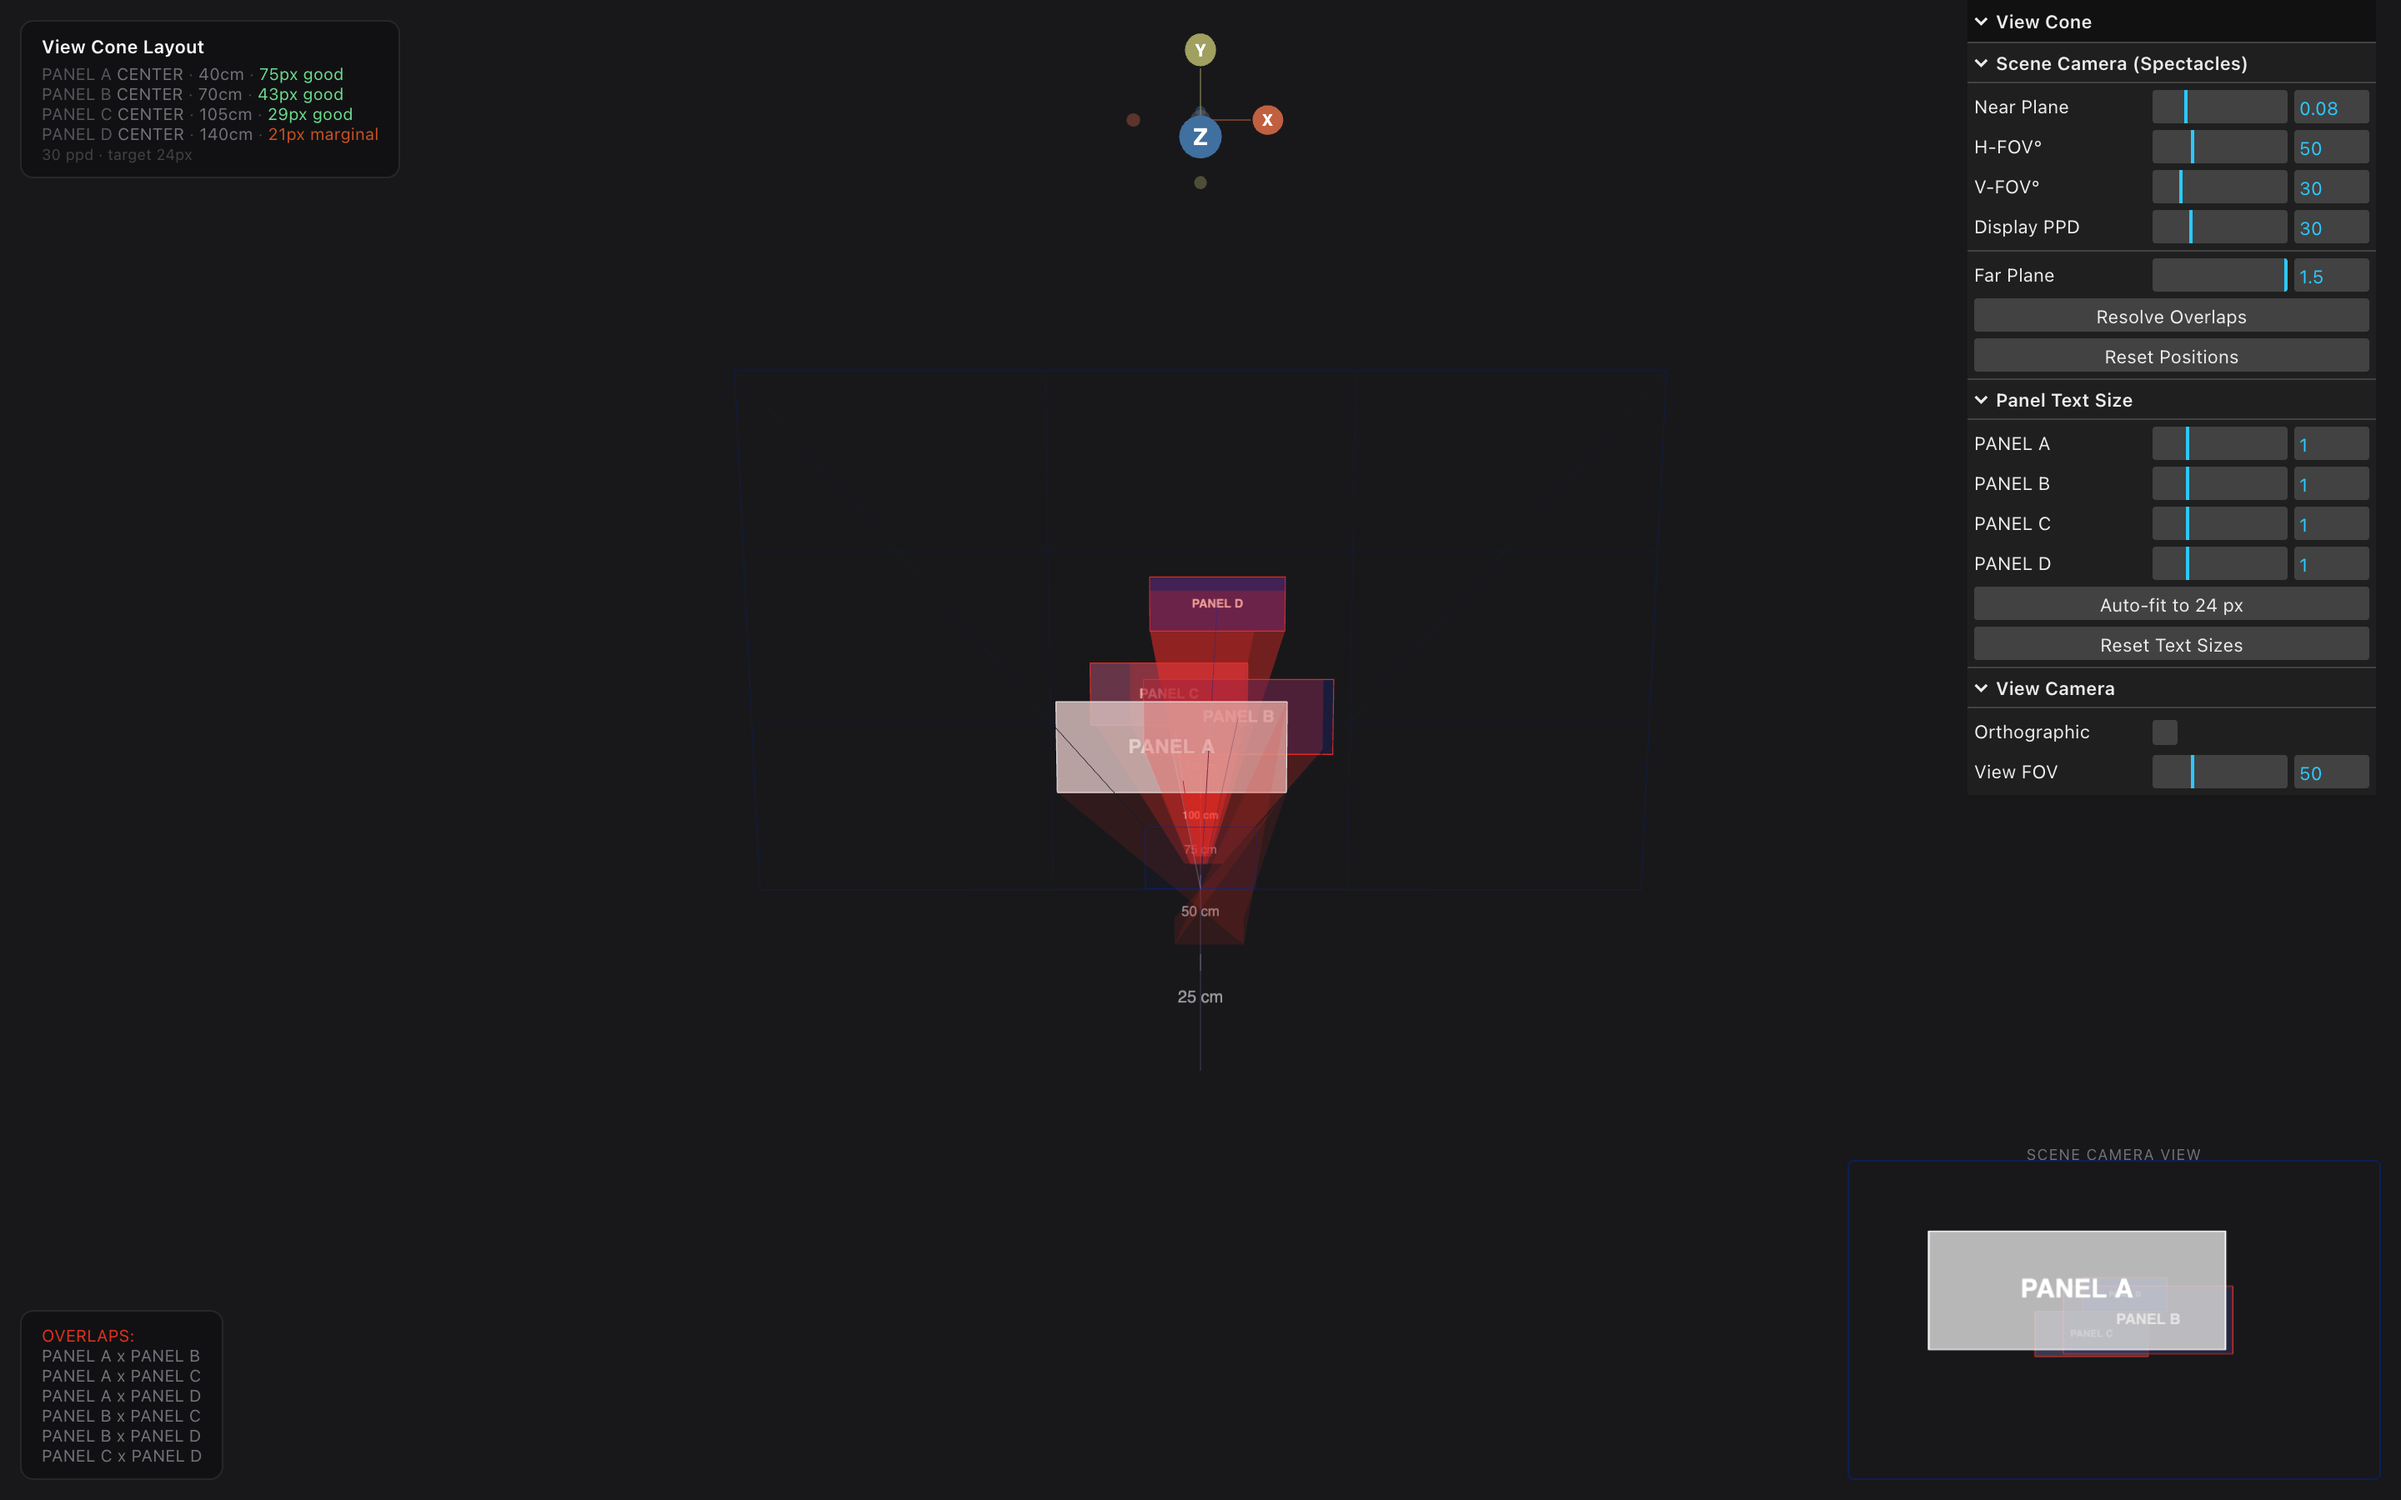
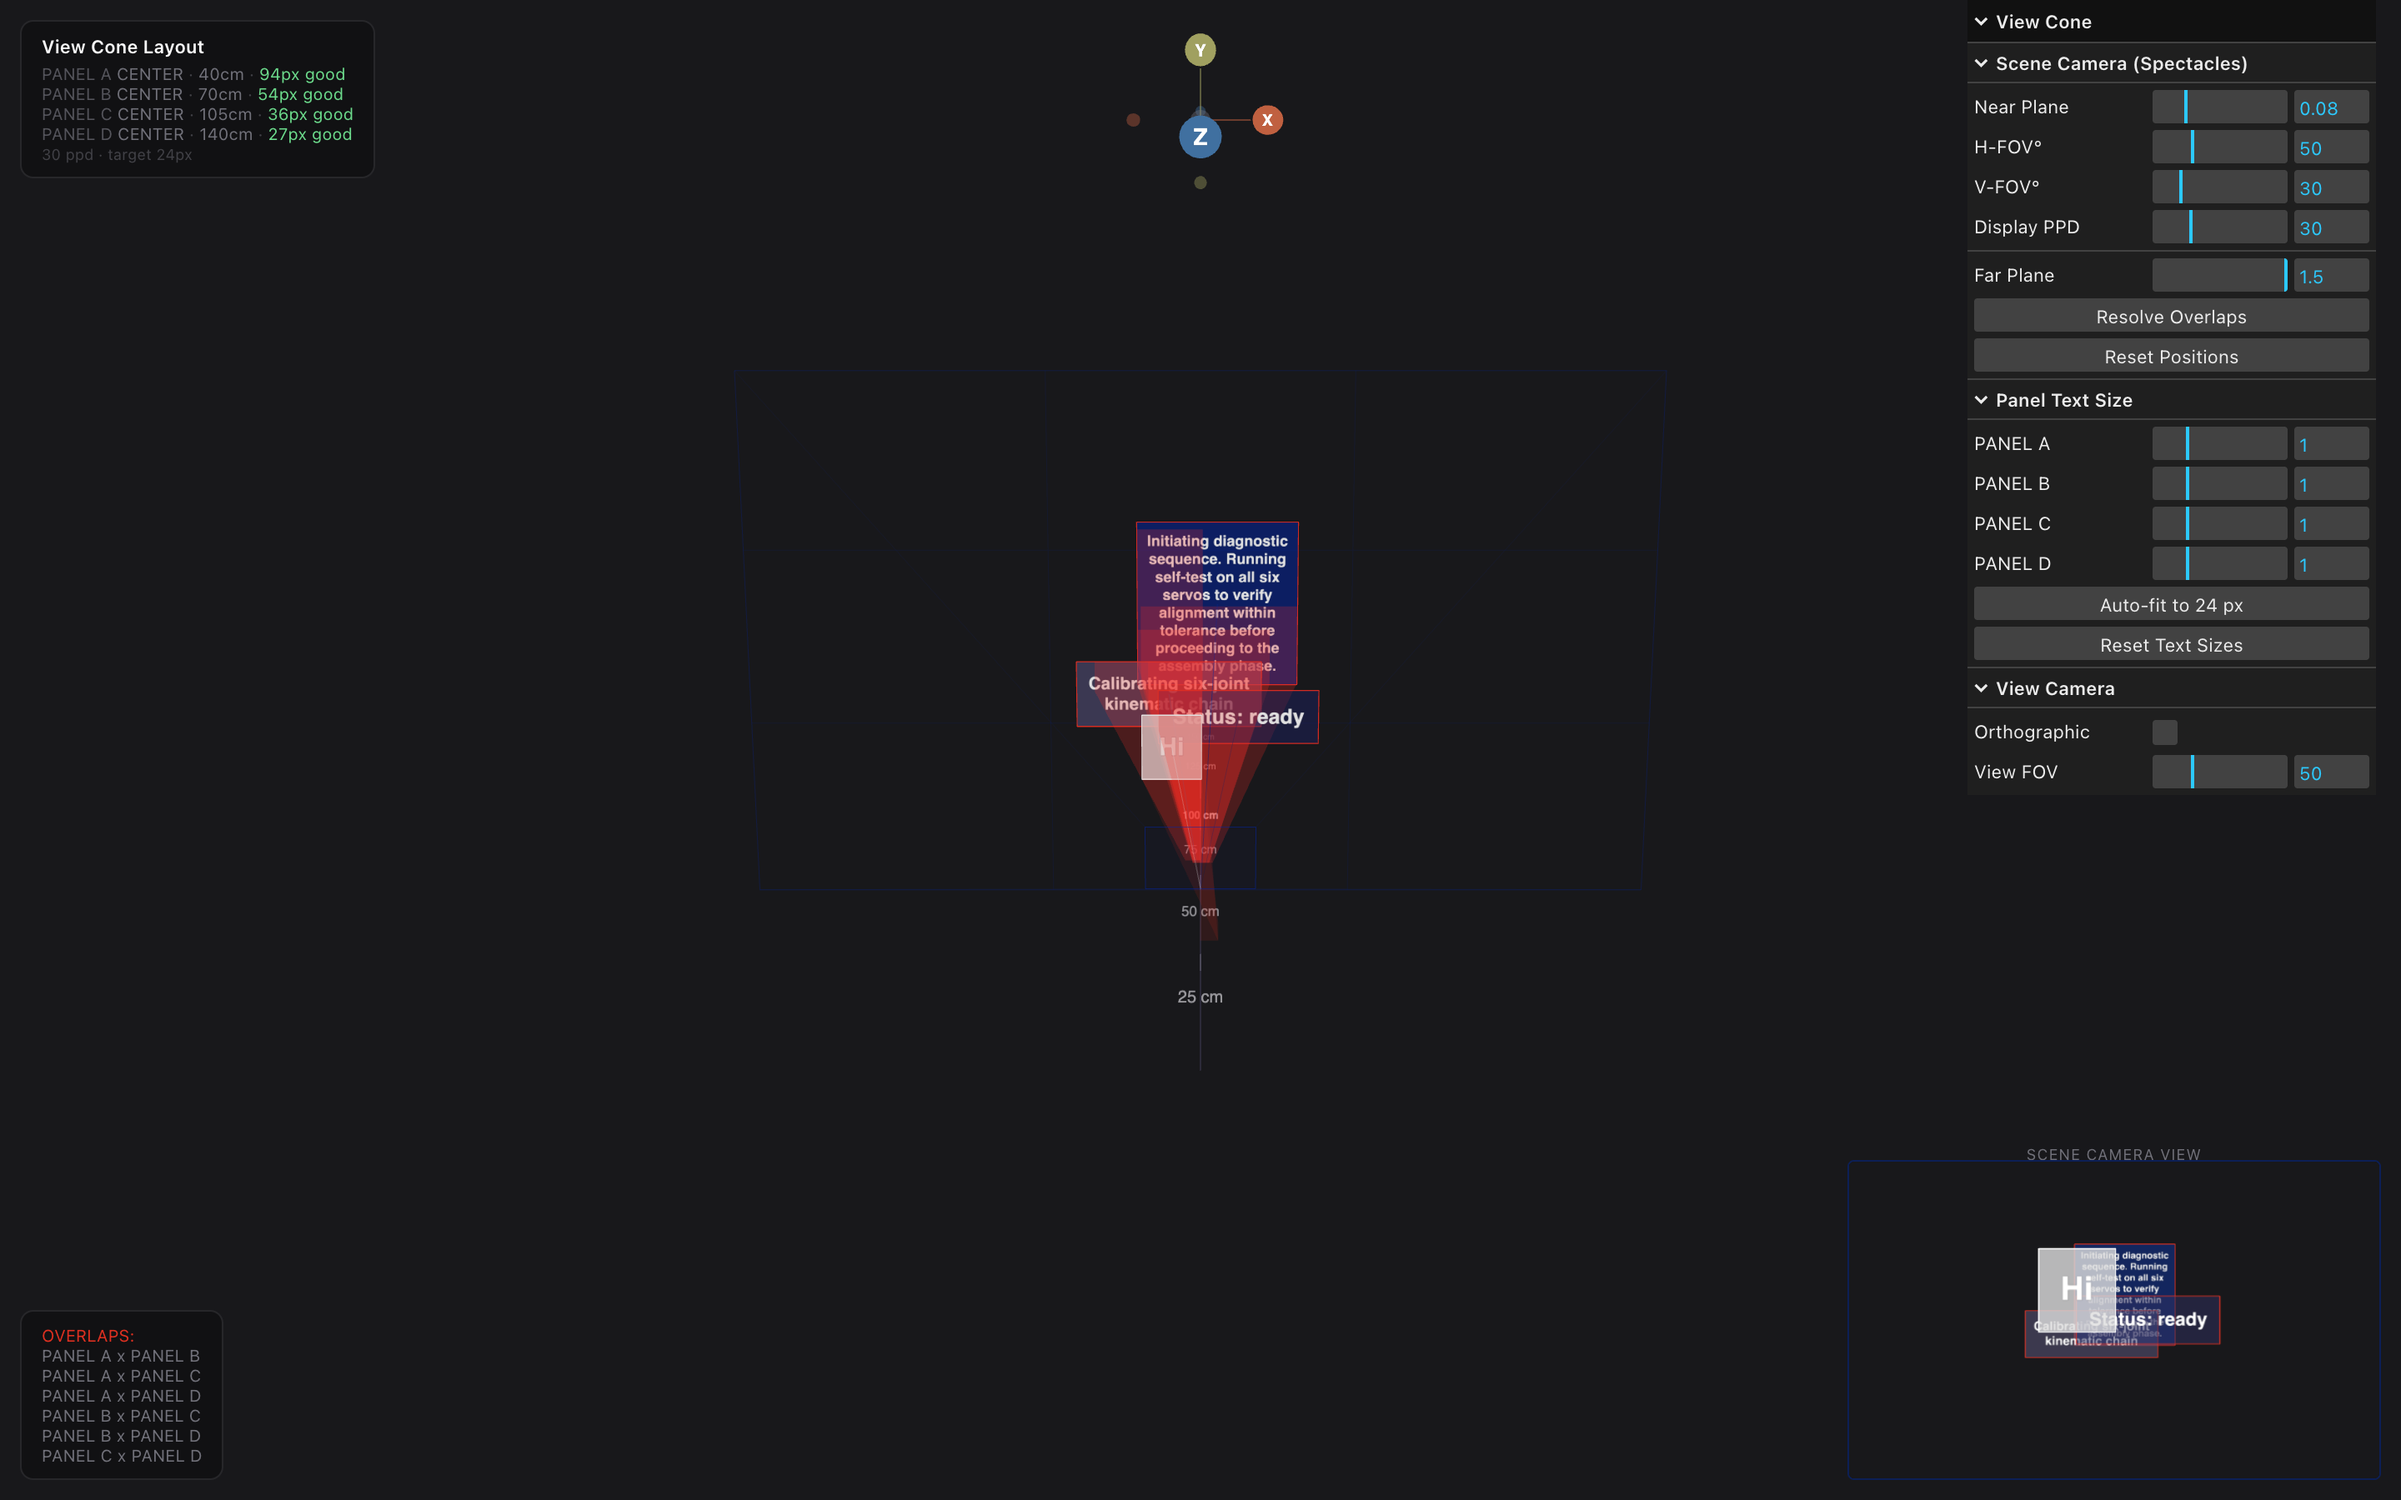
Demo: panels shrinkwrap to their text, sample sentences with length variance
createPanel now takes free-form text, runs canvas-based measurement +
greedy word-wrap, and resizes the face/border/label to the text's
bounding box plus a small padding. Frames snap to content; setTextScale
re-runs the wrap, so changing scale grows the panel rather than
overflowing it.

Sample content covers the full range:
  PANEL A — "Hi" (very short)
  PANEL B — "Status: ready" (short)
  PANEL C — "Calibrating six-joint kinematic chain" (medium)
  PANEL D — full diagnostic sentence (long, wraps to ~6 lines)

Changed region(s): [[0.4375, 0.3422, 0.5625, 0.6222], [0.7812, 0.8089, 0.9375, 0.9022], [0.0938, 0.0311, 0.1562, 0.0933]]

diff --git a/packages/view-cone-layout/demo/index.html b/packages/view-cone-layout/demo/index.html
@@ -287,60 +287,157 @@ const panelNames = ["PANEL A", "PANEL B", "PANEL C", "PANEL D"];
 
 const DEPTHS = { near: 0.4, mid: 0.65, far: 1.0 };
 
-function createPanel(name, x, y, z, color, w = 0.2, h = 0.08) {
-  const group = new THREE.Group();
+// ─── Text measurement + shrinkwrap ───────────────────────────────────
+// Convert world meters ↔ canvas pixels at a fixed pixel density.
+// 1280 px/m means 1 cm world == 12.8 px on the label canvas. This keeps
+// rendered text crisp regardless of the wrapped line count.
+const LABEL_PPM = 1280;
 
-  // Solid face
-  const faceGeo = new THREE.PlaneGeometry(w, h);
-  const faceMat = new THREE.MeshBasicMaterial({
-    color, transparent: true, opacity: 0.6, side: THREE.DoubleSide, depthWrite: false,
-  });
-  const face = new THREE.Mesh(faceGeo, faceMat);
-  group.add(face);
+const _measureCanvas = document.createElement('canvas');
+const _measureCtx = _measureCanvas.getContext('2d');
 
-  // Border outline
-  const borderGeo = new THREE.EdgesGeometry(new THREE.BoxGeometry(w, h, 0.002));
-  const borderMat = new THREE.LineBasicMaterial({ color: 0xffffff, transparent: true, opacity: 0.8 });
-  const border = new THREE.LineSegments(borderGeo, borderMat);
-  group.add(border);
+/**
+ * Greedy word-wrap + bounding-box measurement using canvas.measureText().
+ * Returns { lines, widthPx, heightPx, lineHeightPx }.
+ */
+function measureTextLines(text, fontPx, maxWidthPx = Infinity) {
+  _measureCtx.font = `bold ${fontPx}px Inter, sans-serif`;
+  const lineHeightPx = fontPx * 1.2;
+  const finalLines = [];
 
-  // Label
+  for (const inputLine of text.split('\n')) {
+    const words = inputLine.split(' ');
+    let cur = '';
+    for (const word of words) {
+      const trial = cur ? cur + ' ' + word : word;
+      if (_measureCtx.measureText(trial).width > maxWidthPx && cur) {
+        finalLines.push(cur);
+        cur = word;
+      } else {
+        cur = trial;
+      }
+    }
+    if (cur || inputLine === '') finalLines.push(cur);
+  }
+
+  let widthPx = 0;
+  for (const line of finalLines) {
+    widthPx = Math.max(widthPx, _measureCtx.measureText(line).width);
+  }
+  return {
+    lines: finalLines,
+    widthPx: Math.ceil(widthPx),
+    heightPx: Math.ceil(finalLines.length * lineHeightPx),
+    lineHeightPx,
+  };
+}
+
+/**
+ * Render measured text to a canvas at supersampled resolution.
+ * Returns { canvas, widthPx, heightPx } where the dims match `measure`.
+ */
+function renderTextCanvas(measure, fontPx, color = '#ffffff') {
+  const SS = 2;  // supersample factor for sharp glyphs at any scale
   const canvas = document.createElement('canvas');
-  canvas.width = 256; canvas.height = 64;
+  canvas.width = measure.widthPx * SS;
+  canvas.height = measure.heightPx * SS;
   const ctx = canvas.getContext('2d');
-  ctx.fillStyle = '#ffffff';
-  ctx.font = 'bold 28px Inter, sans-serif';
+  ctx.scale(SS, SS);
+  ctx.fillStyle = color;
+  ctx.font = `bold ${fontPx}px Inter, sans-serif`;
   ctx.textAlign = 'center';
-  ctx.fillText(name, 128, 40);
-  const tex = new THREE.CanvasTexture(canvas);
-  const labelGeo = new THREE.PlaneGeometry(w * 0.8, h * 0.5);
-  const labelMat = new THREE.MeshBasicMaterial({ map: tex, transparent: true, depthWrite: false });
-  const label = new THREE.Mesh(labelGeo, labelMat);
-  label.position.z = 0.003;
-  group.add(label);
+  ctx.textBaseline = 'middle';
+  for (let i = 0; i < measure.lines.length; i++) {
+    ctx.fillText(measure.lines[i], measure.widthPx / 2, (i + 0.5) * measure.lineHeightPx);
+  }
+  return { canvas, widthPx: measure.widthPx, heightPx: measure.heightPx };
+}
 
+function createPanel({
+  name, text, x, y, z, color,
+  fontPx = 28,
+  paddingCm = 1.5,             // padding around text (cm world)
+  maxWidthCm = 25,             // wrap width (cm world)
+}) {
+  const group = new THREE.Group();
   group.position.set(x, y, z);
   scene.add(group);
 
-  // Original label geometry parameters — used for text-size scaling
-  // and for computing apparent pixel size on the wearer's display.
-  const LABEL_FONT_PX = 28;        // font size used to render the canvas texture
-  const LABEL_CANVAS_H = 64;       // canvas height in pixels
-  const LABEL_PLANE_H = h * 0.5;   // label plane height in world meters
-  // World height of one cap (font glyph) at scale=1.0:
-  const baselineCapHWorld = LABEL_PLANE_H * (LABEL_FONT_PX / LABEL_CANVAS_H);
+  // Solid face
+  const faceMat = new THREE.MeshBasicMaterial({
+    color, transparent: true, opacity: 0.6, side: THREE.DoubleSide, depthWrite: false,
+  });
+  const face = new THREE.Mesh(new THREE.PlaneGeometry(0.01, 0.01), faceMat);
+  group.add(face);
 
-  return {
-    name, group, face, faceMat, borderMat, label, w, h,
-    hovered: false, sector: '', conflicts: [],
+  // Border outline
+  const borderMat = new THREE.LineBasicMaterial({ color: 0xffffff, transparent: true, opacity: 0.8 });
+  const border = new THREE.LineSegments(new THREE.BufferGeometry(), borderMat);
+  group.add(border);
+
+  // Label (text texture)
+  const labelMat = new THREE.MeshBasicMaterial({ transparent: true, depthWrite: false });
+  const label = new THREE.Mesh(new THREE.PlaneGeometry(0.01, 0.01), labelMat);
+  label.position.z = 0.003;
+  group.add(label);
+
+  // Panel state — recomputed by shrinkwrap()
+  const panel = {
+    name, group, face, faceMat, border, borderMat, label, labelMat,
+    text, fontPx, paddingCm, maxWidthCm,
     textScale: 1.0,
-    baselineCapHWorld,
+    w: 0, h: 0,
+    baselineCapHWorld: 0,
+    hovered: false, sector: '', conflicts: [],
     get worldPos() { return group.position; },
+
+    /** Re-measure the text at current fontPx*scale, resize face/border/label to fit. */
+    shrinkwrap() {
+      const effFontPx = this.fontPx * this.textScale;
+      const maxW = this.maxWidthCm * 0.01 * LABEL_PPM;
+      const measure = measureTextLines(this.text, effFontPx, maxW);
+
+      // Render to a fresh canvas
+      const rendered = renderTextCanvas(measure, effFontPx);
+      if (this.labelMat.map) this.labelMat.map.dispose();
+      this.labelMat.map = new THREE.CanvasTexture(rendered.canvas);
+      this.labelMat.map.colorSpace = THREE.SRGBColorSpace;
+      this.labelMat.needsUpdate = true;
+
+      // World dims
+      const labelW = rendered.widthPx / LABEL_PPM;
+      const labelH = rendered.heightPx / LABEL_PPM;
+      const padW = this.paddingCm * 0.01 * 2;
+      const frameW = labelW + padW;
+      const frameH = labelH + padW;
+
+      // Update geometries
+      this.label.geometry.dispose();
+      this.label.geometry = new THREE.PlaneGeometry(labelW, labelH);
+      this.face.geometry.dispose();
+      this.face.geometry = new THREE.PlaneGeometry(frameW, frameH);
+      this.border.geometry.dispose();
+      this.border.geometry = new THREE.EdgesGeometry(new THREE.BoxGeometry(frameW, frameH, 0.002));
+
+      this.w = frameW;
+      this.h = frameH;
+      // Cap height in world = font px / PPM (one glyph row)
+      this.baselineCapHWorld = effFontPx / LABEL_PPM;
+    },
+
     setTextScale(s) {
       this.textScale = s;
-      this.label.scale.set(s, s, 1);
+      this.shrinkwrap();
+    },
+
+    setText(newText) {
+      this.text = newText;
+      this.shrinkwrap();
     },
   };
+
+  panel.shrinkwrap();
+  return panel;
 }
 
 /**
@@ -357,7 +454,8 @@ function createPanel(name, x, y, z, color, w = 0.2, h = 0.08) {
 function getPanelTextMetrics(panel, ppd) {
   const p = panel.worldPos;
   const distance = Math.sqrt(p.x * p.x + p.y * p.y + p.z * p.z);
-  const capH = panel.baselineCapHWorld * panel.textScale;
+  // baselineCapHWorld is already scaled by current textScale (set in shrinkwrap)
+  const capH = panel.baselineCapHWorld;
   const angularRad = 2 * Math.atan(capH / 2 / distance);
   const angularDeg = angularRad * 180 / Math.PI;
   const pixelHeight = angularDeg * ppd;
@@ -375,9 +473,25 @@ const INITIAL_POSITIONS = [
   [-0.040, -0.025, -1.05],
   [ 0.025,  0.060, -1.40],   // far
 ];
+
+// Sample content with high length variance: short label, status line,
+// medium phrase, long sentence. Frames shrinkwrap to their text, so each
+// panel ends up at a different world size.
+const PANEL_SENTENCES = [
+  "Hi",
+  "Status: ready",
+  "Calibrating six-joint kinematic chain",
+  "Initiating diagnostic sequence. Running self-test on all six servos to verify alignment within tolerance before proceeding to the assembly phase.",
+];
+
 for (let i = 0; i < panelNames.length; i++) {
   const [x, y, z] = INITIAL_POSITIONS[i];
-  panels.push(createPanel(panelNames[i], x, y, z, panelColors[i]));
+  panels.push(createPanel({
+    name: panelNames[i],
+    text: PANEL_SENTENCES[i],
+    x, y, z,
+    color: panelColors[i],
+  }));
 }
 
 // ─── Cone projection + overlap detection ─────────────────────────────

diff --git a/community-thread.md b/community-thread.md
@@ -1,0 +1,15 @@
+# UI development on Spectacles: friction points and feature requests
+
+UI dev on Spectacles remains one of the most time-consuming parts of the AR development workflow, and I suspect we're all hitting the same walls in parallel and coming up with bespoke solutions for our respective use cases.
+
+I'd like to use this thread to surface those friction points collectively so we can hand the Spectacles team focused, granular feedback instead of scattered one-off asks.
+
+To get the conversation started, the recurring gap I keep running into is the absence of a spatial equivalent of HTML and CSS, which is to say no declarative layout, no constraint solver, and limited runtime introspection. Coding agents help with the generation side of UI work, but generation alone doesn't get you to a coherent user flow, so the orchestration work still falls back on the developer.
+
+Those challenges are what prompted me to start releasing small open-source pieces in this direction. The first drop is a text reflow utility: https://github.com/a-sumo/spatial-flex/tree/main/packages/text-reflow
+
+To keep things actionable, a few suggested buckets to drop into:
+
+1. Layout and constraints: what's hardest to express? (centering, fitting text in a box, responsive sizing, anchoring)
+2. Runtime introspection: how are you inspecting instantiated UI today?
+3. Live preview and testing: how do you verify the user experience matches your specification?
